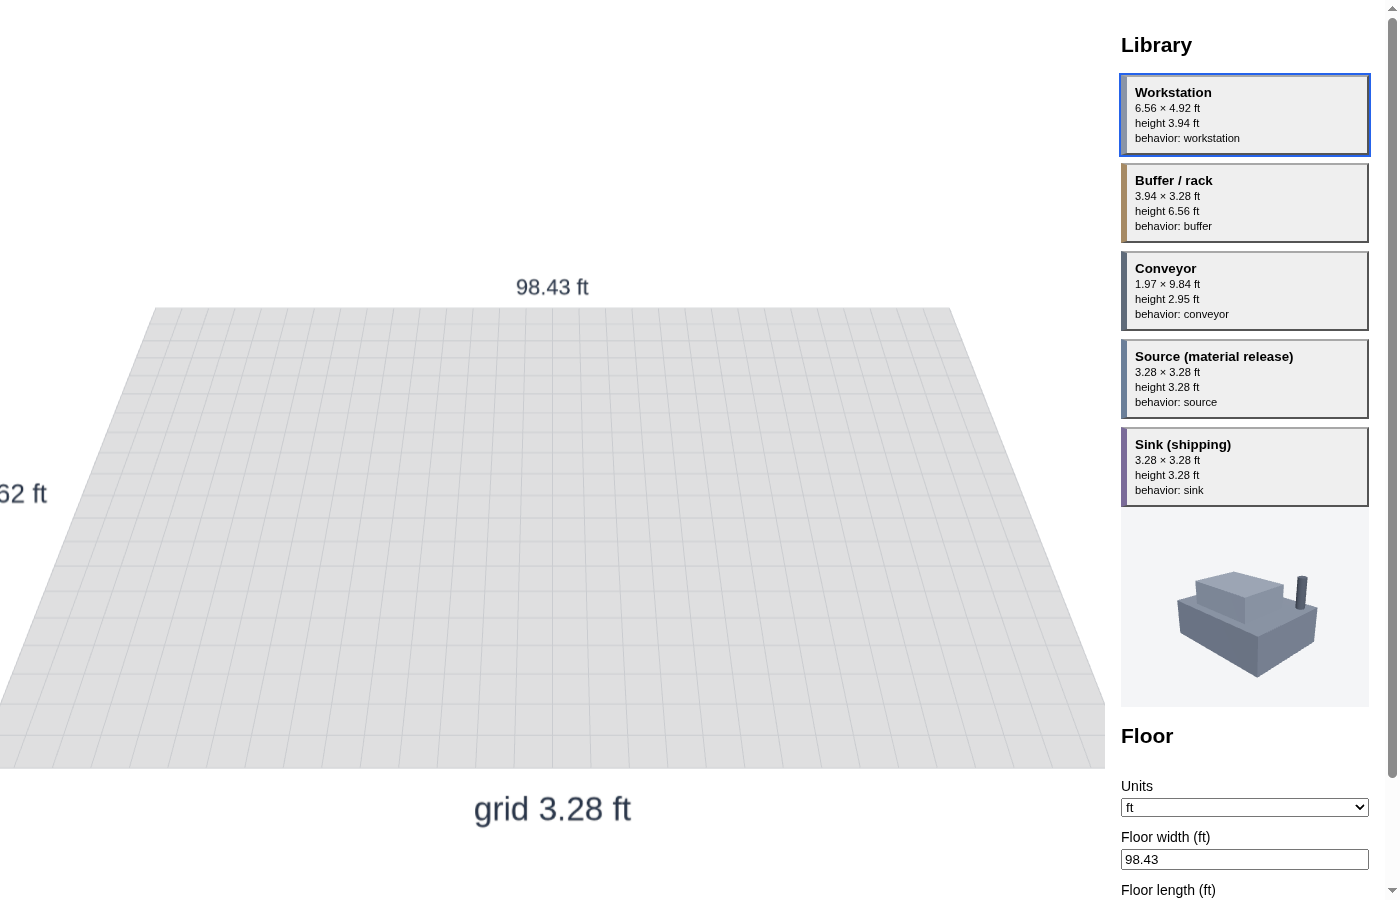
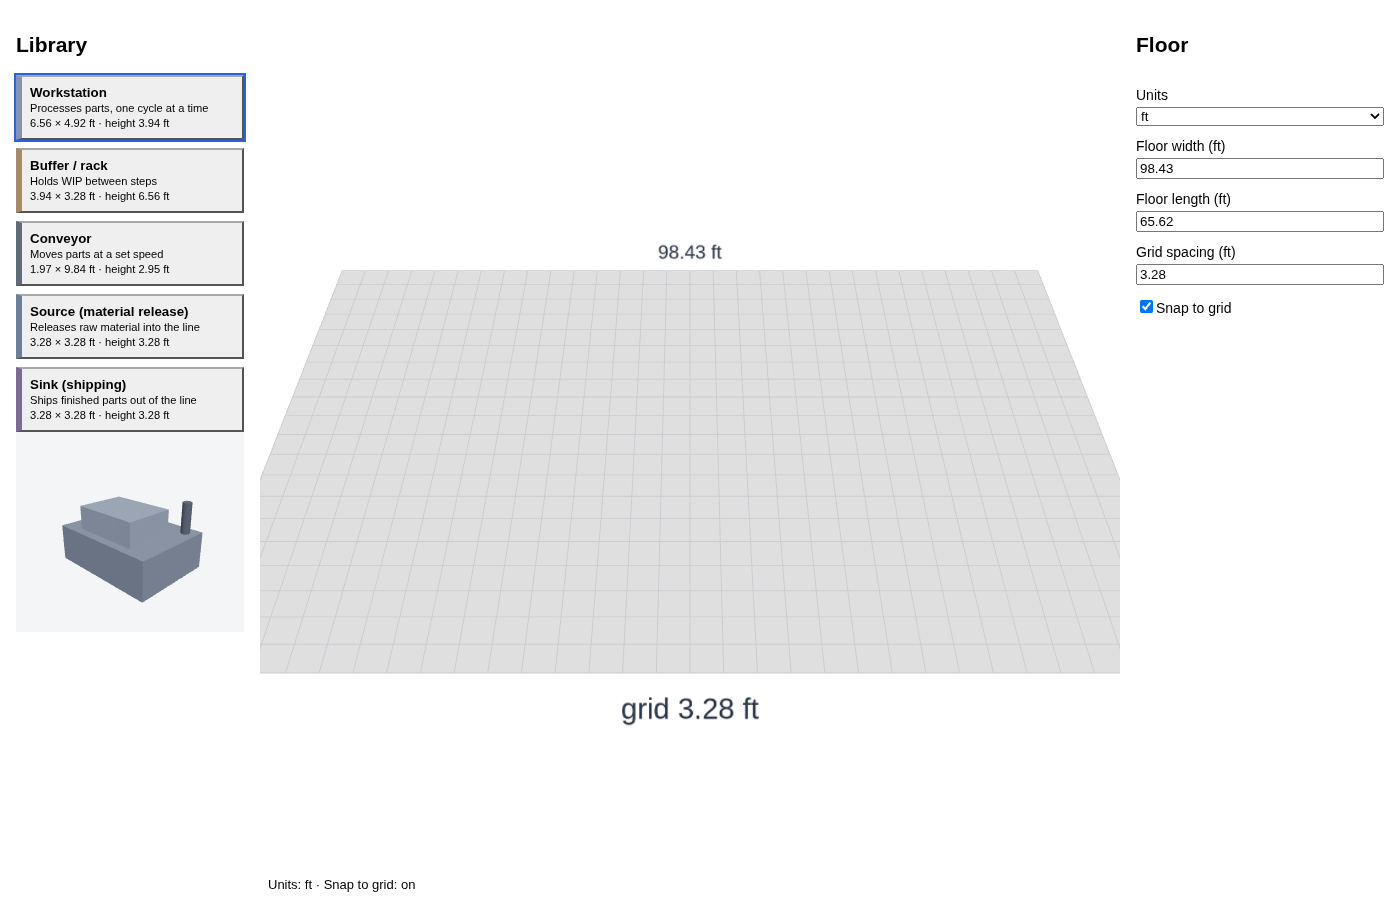
EQ-1: address review (library in left column, descriptions, store selection, shipping sink)

diff --git a/apps/web/src/App.tsx b/apps/web/src/App.tsx
@@ -1,4 +1,3 @@
-import { useState } from 'react';
 import { BASE_EQUIPMENT_TYPES } from '@factory-sim/schema';
 import { LibraryPanel } from './equipment/LibraryPanel';
 import { LibraryPreview } from './equipment/EquipmentModel';
@@ -8,20 +7,28 @@ import { useEditorStore } from './layout/editorStore';
 
 export function App() {
   const unit = useEditorStore((s) => s.unit);
-  const [selectedId, setSelectedId] = useState<string | null>(BASE_EQUIPMENT_TYPES[0]!.id);
-  const selected = BASE_EQUIPMENT_TYPES.find((t) => t.id === selectedId);
   const snap = useEditorStore((s) => s.snapEnabled);
+  const selectedId = useEditorStore((s) => s.selectedTypeId);
+  const selectType = useEditorStore((s) => s.selectType);
+  const selected = BASE_EQUIPMENT_TYPES.find((t) => t.id === selectedId);
+  // Wireframe 1: library left, viewport centre, properties right.
   return (
-    <div style={{ display: 'grid', gridTemplateColumns: '1fr 280px', height: '100vh' }}>
+    <div style={{ display: 'grid', gridTemplateColumns: '260px 1fr 280px', height: '100vh' }}>
+      <aside style={{ padding: 16, font: '14px sans-serif', overflowY: 'auto' }}>
+        <LibraryPanel unit={unit} selectedId={selectedId} onSelect={selectType} />
+        {selected ? (
+          <LibraryPreview type={selected} />
+        ) : (
+          <p style={{ color: '#6b7280' }}>Select a type to preview it in 3D.</p>
+        )}
+      </aside>
       <main style={{ display: 'grid', gridTemplateRows: '1fr auto' }}>
         <FloorScene />
         <footer style={{ padding: 8, font: '13px sans-serif' }}>
           Units: {unit} · Snap to grid: {snap ? 'on' : 'off'}
         </footer>
       </main>
-      <aside style={{ padding: 16, font: '14px sans-serif' }}>
-        <LibraryPanel unit={unit} selectedId={selectedId} onSelect={setSelectedId} />
-        {selected && <LibraryPreview type={selected} />}
+      <aside style={{ padding: 16, font: '14px sans-serif', overflowY: 'auto' }}>
         <FloorPanel />
       </aside>
     </div>

diff --git a/apps/web/src/equipment/LibraryPanel.test.tsx b/apps/web/src/equipment/LibraryPanel.test.tsx
@@ -3,10 +3,19 @@ import { cleanup, render, screen, within } from '@testing-library/react';
 import userEvent from '@testing-library/user-event';
 import { BASE_EQUIPMENT_TYPES } from '@factory-sim/schema';
 import { LibraryPanel } from './LibraryPanel';
+import { TYPE_DESCRIPTIONS } from './descriptions';
 
 afterEach(cleanup);
 
 describe('LibraryPanel', () => {
+  it('every behavior has a non-empty one-line description', () => {
+    for (const t of BASE_EQUIPMENT_TYPES) {
+      const d = TYPE_DESCRIPTIONS[t.behavior];
+      expect(d.length).toBeGreaterThan(5);
+      expect(d).not.toContain('\n');
+    }
+  });
+
   it('lists workstation, buffer/rack, conveyor, source and sink', () => {
     render(<LibraryPanel unit="m" selectedId={null} onSelect={() => {}} />);
     const items = screen.getAllByRole('listitem');
@@ -17,7 +26,7 @@ describe('LibraryPanel', () => {
     }
   });
 
-  it('shows each type with its default footprint, height and behavior', () => {
+  it('shows each type with a one-line description of its behavior and its default footprint and height', () => {
     render(<LibraryPanel unit="m" selectedId={null} onSelect={() => {}} />);
     for (const t of BASE_EQUIPMENT_TYPES) {
       const item = screen.getByRole('listitem', { name: t.name });
@@ -26,7 +35,7 @@ describe('LibraryPanel', () => {
         s.getByText(new RegExp(`${t.footprint.width} × ${t.footprint.length} m`)),
       ).toBeTruthy();
       expect(s.getByText(new RegExp(`height ${t.height} m`))).toBeTruthy();
-      expect(s.getByText(new RegExp(`behavior: ${t.behavior}`))).toBeTruthy();
+      expect(s.getByText(TYPE_DESCRIPTIONS[t.behavior])).toBeTruthy();
     }
   });
 

diff --git a/apps/web/src/equipment/shapes.ts b/apps/web/src/equipment/shapes.ts
@@ -99,15 +99,21 @@ export function equipmentParts(
       ];
     }
     case 'sink': {
-      // Shipping dock: a box container with a dark open top and a loading ramp on one side.
+      // Shipping: an open container with a dark mouth, and a stack of pallets waiting beside it.
       const base = h * 0.1;
-      const body = h * 0.7;
-      return [
+      const lip = h * 0.02;
+      const bodyTop = h - lip;
+      const parts: Part[] = [
         slab(w, base, l, 0, 0, 0, 0.7),
-        slab(w * 0.7, body, l, base, -w * 0.15, 0, 1),
-        slab(w * 0.7, h - base - body, l * 0.1, base + body, -w * 0.15, l * 0.45, 1.2),
-        slab(w * 0.3, h * 0.25, l * 0.8, base, w * 0.35, 0, 0.6),
+        slab(w * 0.6, bodyTop - base, l * 0.9, base, -w * 0.2, 0, 1),
+        slab(w * 0.5, lip, l * 0.75, bodyTop, -w * 0.2, 0, 0.2),
       ];
+      const pallet = h * 0.12;
+      for (let i = 0; i < 3; i++)
+        parts.push(
+          slab(w * 0.3, pallet, l * 0.6, base + i * pallet, w * 0.3, 0, i % 2 ? 0.9 : 0.6),
+        );
+      return parts;
     }
   }
 }
@@ -131,6 +137,6 @@ export function partBounds(parts: Part[]): { min: Vec3; max: Vec3 } {
 /** Footprint-independent description of a shape's structure, for telling shapes apart. */
 export function shapeSignature(parts: Part[]): string {
   return parts
-    .map((p) => (p.shape === 'box' ? 'b' : p.radiusTop === p.radiusBottom ? 'c' : 'f'))
+    .map((p) => (p.shape === 'box' ? 'b' : p.radiusTop === p.radiusBottom ? 'c' : 'f') + p.tone)
     .join('');
 }

diff --git a/apps/web/src/equipment/shapes.test.ts b/apps/web/src/equipment/shapes.test.ts
@@ -32,4 +32,18 @@ describe('Each type renders as a distinct, recognizable 3D shape', () => {
     expect(b.max[0] - b.min[0]).toBeCloseTo(4, 9);
     expect(b.max[1]).toBeCloseTo(2, 9);
   });
+
+  it('the sink reads as shipping: a dark open top and a stack of pallets', () => {
+    const sink = BASE_EQUIPMENT_TYPES.find((t) => t.behavior === 'sink')!;
+    const parts = equipmentParts(sink);
+    const darkest = Math.min(...parts.map((p) => p.tone));
+    expect(darkest).toBeLessThanOrEqual(0.3);
+    const top = parts.find((p) => p.tone === darkest)!;
+    expect(top.position[1]).toBeGreaterThan(sink.height * 0.9);
+    // At least three pallet-like slabs share one column.
+    const slabs = parts.filter((p) => p.shape === 'box' && p.size[1] < sink.height * 0.2);
+    const columns = new Map<number, number>();
+    for (const p of slabs) columns.set(p.position[0], (columns.get(p.position[0]) ?? 0) + 1);
+    expect(Math.max(...columns.values())).toBeGreaterThanOrEqual(3);
+  });
 });

diff --git a/apps/web/src/equipment/LibraryPanel.tsx b/apps/web/src/equipment/LibraryPanel.tsx
@@ -1,4 +1,5 @@
 import { BASE_EQUIPMENT_TYPES } from '@factory-sim/schema';
+import { TYPE_DESCRIPTIONS } from './descriptions';
 import { formatNumber, toDisplay, type DisplayUnit } from '../layout/units';
 
 interface Props {
@@ -30,15 +31,12 @@ export function LibraryPanel({ unit, selectedId, onSelect }: Props) {
             >
               <strong>{t.name}</strong>
               <br />
-              <small>
-                {d(t.footprint.width)} × {d(t.footprint.length)} {unit}
-              </small>
+              <small>{TYPE_DESCRIPTIONS[t.behavior]}</small>
               <br />
               <small>
-                height {d(t.height)} {unit}
+                {d(t.footprint.width)} × {d(t.footprint.length)} {unit} · height {d(t.height)}{' '}
+                {unit}
               </small>
-              <br />
-              <small>behavior: {t.behavior}</small>
             </button>
           </li>
         ))}

diff --git a/apps/web/src/layout/editorStore.test.ts b/apps/web/src/layout/editorStore.test.ts
@@ -49,3 +49,22 @@ describe('editor store', () => {
     expect(Object.keys(again.getState().floor).sort()).toEqual(['gridSpacing', 'length', 'width']);
   });
 });
+
+describe('selected library type (EQ-1)', () => {
+  it('starts with nothing selected and records the type to place', () => {
+    const store = createEditorStore();
+    expect(store.getState().selectedTypeId).toBeNull();
+    store.getState().selectType('base-conveyor');
+    expect(store.getState().selectedTypeId).toBe('base-conveyor');
+    store.getState().selectType(null);
+    expect(store.getState().selectedTypeId).toBeNull();
+  });
+
+  it('is not persisted with the display preferences', () => {
+    localStorage.clear();
+    const store = createEditorStore();
+    store.getState().selectType('base-sink');
+    store.getState().toggleSnap();
+    expect(localStorage.getItem('factory-sim:editor-prefs')).not.toContain('base-sink');
+  });
+});

diff --git a/apps/web/src/layout/editorStore.ts b/apps/web/src/layout/editorStore.ts
@@ -45,12 +45,17 @@ export interface EditorState extends Prefs {
   /** Display only: does not touch `floor`. */
   setUnit: (unit: DisplayUnit) => void;
   toggleSnap: () => void;
+  /** The library type to preview and, with LE-2, to place. Session-only, not a preference. */
+  selectedTypeId: string | null;
+  selectType: (typeId: string | null) => void;
 }
 
 export function createEditorStore() {
   return create<EditorState>()((set, get) => ({
     ...loadPrefs(),
     floor: createProject().floor,
+    selectedTypeId: null,
+    selectType: (selectedTypeId) => set({ selectedTypeId }),
     setFloor: (patch) => {
       const next = { ...get().floor, ...patch };
       const parsed = floorSchema.safeParse(next);

diff --git a/apps/web/src/equipment/descriptions.ts b/apps/web/src/equipment/descriptions.ts
@@ -1,0 +1,10 @@
+import type { EquipmentBehavior } from '@factory-sim/schema';
+
+/** One line per behavior for the library; UI copy, so it lives here and not in the schema. */
+export const TYPE_DESCRIPTIONS: Record<EquipmentBehavior, string> = {
+  workstation: 'Processes parts, one cycle at a time',
+  buffer: 'Holds WIP between steps',
+  conveyor: 'Moves parts at a set speed',
+  source: 'Releases raw material into the line',
+  sink: 'Ships finished parts out of the line',
+};
